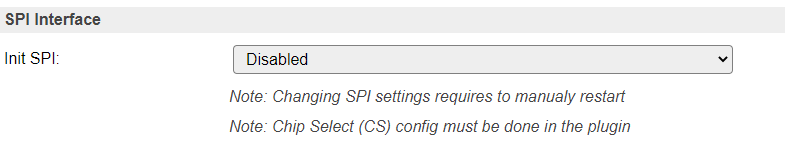
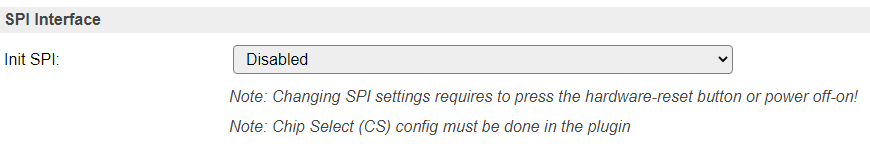
[SPI][ESP32] User-defined GPIO pins for SCLK, MISO and MOSI

diff --git a/src/src/WebServer/HardwarePage.cpp b/src/src/WebServer/HardwarePage.cpp
@@ -32,6 +32,7 @@ void handle_hardware() {
 
   if (isFormItem(F("psda")))
   {
+    String error;
     Settings.Pin_status_led           = getFormItemInt(F("pled"));
     Settings.Pin_status_led_Inversed  = isFormItemChecked(F("pledi"));
     Settings.Pin_Reset                = getFormItemInt(F("pres"));
@@ -50,6 +51,14 @@ void handle_hardware() {
 #endif
     #ifdef ESP32
       Settings.InitSPI                = getFormItemInt(F("initspi"), 0);
+      if (Settings.InitSPI == 3) { // User-define SPI GPIO pins
+        Settings.SPI_SCLK_pin         = getFormItemInt(F("spipinsclk"), -1);
+        Settings.SPI_MISO_pin         = getFormItemInt(F("spipinmiso"), -1);
+        Settings.SPI_MOSI_pin         = getFormItemInt(F("spipinmosi"), -1);
+        if (!Settings.isSPI_valid()) { // Checks
+          error += F("User-defined SPI pins not configured correctly!\n");
+        }
+      }
     #else //for ESP8266 we keep the old UI
       Settings.InitSPI                = isFormItemChecked(F("initspi")); // SPI Init
     #endif
@@ -80,7 +89,7 @@ void handle_hardware() {
       }
       ++gpio;
     }
-    String error = SaveSettings();
+    error += SaveSettings();
     addHtmlError(error);
     if (error.isEmpty()) {
       // Apply I2C settings.
@@ -156,12 +165,21 @@ void handle_hardware() {
   addFormSubHeader(F("SPI Interface"));
   #ifdef ESP32
   {
-    const __FlashStringHelper * spi_options[3] = { 
+    // Script to show GPIO pins for User-defined SPI GPIOs
+    html_add_script(F("function spiOptionChanged(elem) {var spipinstyle = elem.value == 3 ? '' : 'none';document.getElementById('tr_spipinsclk').style.display = spipinstyle;document.getElementById('tr_spipinmiso').style.display = spipinstyle;document.getElementById('tr_spipinmosi').style.display = spipinstyle;}"),
+                    false);
+    const String spi_options[] = {
       F("Disabled"), 
       F("VSPI: CLK=GPIO-18, MISO=GPIO-19, MOSI=GPIO-23"), 
-      F("HSPI: CLK=GPIO-14, MISO=GPIO-12, MOSI=GPIO-13")};
-    addFormSelector(F("Init SPI"), F("initspi"), 3, spi_options, NULL, Settings.InitSPI);
-    addFormNote(F("Changing SPI settings requires to manualy restart"));
+      F("HSPI: CLK=GPIO-14, MISO=GPIO-12, MOSI=GPIO-13"),
+      F("User-defined: CLK, MISO, MOSI GPIO-pins")};
+    addFormSelector_script(F("Init SPI"), F("initspi"), 4, spi_options, NULL, NULL, Settings.InitSPI, F("spiOptionChanged(this)"));
+    // User-defined pins
+    addFormPinSelect(PinSelectPurpose::SPI, formatGpioName_output(F("CLK")),  F("spipinsclk"), Settings.SPI_SCLK_pin);
+    addFormPinSelect(PinSelectPurpose::SPI, formatGpioName_input(F("MISO")),  F("spipinmiso"), Settings.SPI_MISO_pin);
+    addFormPinSelect(PinSelectPurpose::SPI, formatGpioName_output(F("MOSI")), F("spipinmosi"), Settings.SPI_MOSI_pin);
+    html_add_script(F("document.getElementById('initspi').onchange();"), false); // Initial trigger onchange script
+    addFormNote(F("Changing SPI settings requires to press the hardware-reset button or power off-on!"));
   }
   #else //for ESP8266 we keep the existing UI
   addFormCheckBox(F("Init SPI"), F("initspi"), Settings.InitSPI>0);
@@ -170,6 +188,7 @@ void handle_hardware() {
   addFormNote(F("Chip Select (CS) config must be done in the plugin"));
   
 #ifdef FEATURE_SD
+  addFormSubHeader(F("SD Card"));
   addFormPinSelect(PinSelectPurpose::Generic_output, formatGpioName_output(F("SD Card CS")), F("sd"), Settings.Pin_sd_cs);
 #endif // ifdef FEATURE_SD
   

diff --git a/src/src/DataStructs/SettingsStruct.cpp b/src/src/DataStructs/SettingsStruct.cpp
@@ -540,7 +540,7 @@ bool SettingsStruct_tmpl<N_TASKS>::getSPI_pins(int8_t spi_gpios[3]) const {
   spi_gpios[0] = -1;
   spi_gpios[1] = -1;
   spi_gpios[2] = -1;
-  if (InitSPI > 0) {
+  if (isSPI_valid()) {
     # ifdef ESP32
     switch (InitSPI) {
       case 1:
@@ -553,6 +553,13 @@ bool SettingsStruct_tmpl<N_TASKS>::getSPI_pins(int8_t spi_gpios[3]) const {
         spi_gpios[0] = 14; // HSPI_SCLK
         spi_gpios[1] = 12; // HSPI_MISO
         spi_gpios[2] = 13; // HSPI_MOSI
+        break;
+      }
+      case 3:
+      {
+        spi_gpios[0] = SPI_SCLK_pin;
+        spi_gpios[1] = SPI_MISO_pin;
+        spi_gpios[2] = SPI_MOSI_pin;
         break;
       }
       default:
@@ -577,6 +584,18 @@ bool SettingsStruct_tmpl<N_TASKS>::isSPI_pin(int8_t pin) const {
     }
   }
   return false;
+}
+
+template<unsigned int N_TASKS>
+bool SettingsStruct_tmpl<N_TASKS>::isSPI_valid() const {
+  return !((InitSPI == 0) ||
+           ((InitSPI == 3) &&
+            ((SPI_SCLK_pin == -1) ||
+             (SPI_MISO_pin == -1) ||
+             (SPI_MOSI_pin == -1) ||
+             (SPI_SCLK_pin == SPI_MISO_pin) ||
+             (SPI_MISO_pin == SPI_MOSI_pin) ||
+             (SPI_MOSI_pin == SPI_SCLK_pin)))); // Checks
 }
 
 template<unsigned int N_TASKS>

diff --git a/src/src/DataStructs/SettingsStruct.h b/src/src/DataStructs/SettingsStruct.h
@@ -179,6 +179,9 @@ class SettingsStruct_tmpl
   // Return true when pin is one of the SPI pins and SPI is enabled
   bool isSPI_pin(int8_t pin) const;
 
+  // Return true when SPI enabled and opt. user defined pins valid.
+  bool isSPI_valid() const;
+
   // Return true when pin is one of the configured I2C pins.
   bool isI2C_pin(int8_t pin) const;
 
@@ -320,6 +323,10 @@ class SettingsStruct_tmpl
   uint8_t       WiFi_TX_power = 70; // 70 = 17.5dBm. unit: 0.25 dBm
   int8_t        WiFi_sensitivity_margin = 3;  // Margin in dBm on top of sensitivity.
   uint8_t       NumberExtraWiFiScans = 0;
+  int8_t        SPI_SCLK_pin = -1;
+  int8_t        SPI_MISO_pin = -1;
+  int8_t        SPI_MOSI_pin = -1;
+  int8_t        alignmentFiller0;  // Should be reused, just added to keep up with alignment
 };
 
 /*

diff --git a/src/src/Helpers/ESPEasy_checks.cpp b/src/src/Helpers/ESPEasy_checks.cpp
@@ -71,10 +71,10 @@ void run_compiletime_checks() {
   check_size<CRCStruct,                             204u>();
   check_size<SecurityStruct,                        593u>();
   #ifdef ESP32
-  const unsigned int SettingsStructSize = (312 + 84 * TASKS_MAX);
+  const unsigned int SettingsStructSize = (316 + 84 * TASKS_MAX);
   #endif
   #ifdef ESP8266
-  const unsigned int SettingsStructSize = (288 + 84 * TASKS_MAX);
+  const unsigned int SettingsStructSize = (292 + 84 * TASKS_MAX);
   #endif
   check_size<SettingsStruct,                        SettingsStructSize>();
   check_size<ControllerSettingsStruct,              820u>();

diff --git a/src/src/Helpers/Hardware.cpp b/src/src/Helpers/Hardware.cpp
@@ -118,7 +118,7 @@ void hardwareInit()
   initI2C();
 
   // SPI Init
-  if (Settings.InitSPI > 0)
+  if (Settings.isSPI_valid())
   {
     SPI.setHwCs(false);
 
@@ -132,6 +132,11 @@ void hardwareInit()
       # define HSPI_SCLK   14
       # define HSPI_SS     15
       SPI.begin(HSPI_SCLK, HSPI_MISO, HSPI_MOSI); // HSPI
+    } else if (Settings.InitSPI >= 3)
+    {
+      SPI.begin(Settings.SPI_SCLK_pin,
+                Settings.SPI_MISO_pin,
+                Settings.SPI_MOSI_pin); // User-defined SPI
     }
     else {
       SPI.begin();                                // VSPI

diff --git a/src/src/Helpers/ESPEasy_Storage.cpp b/src/src/Helpers/ESPEasy_Storage.cpp
@@ -289,6 +289,13 @@ String BuildFixes()
     // Disable periodical scanning as it does cause lots of strange issues.
     Settings.PeriodicalScanWiFi(false);
   }
+  if (Settings.Build < 20115) {
+    if (Settings.InitSPI != 3) { // User-defined SPI pins set to None
+      Settings.SPI_SCLK_pin = -1;
+      Settings.SPI_MISO_pin = -1;
+      Settings.SPI_MOSI_pin = -1;
+    }
+  }
 
   Settings.Build = BUILD;
   return SaveSettings();

diff --git a/src/src/WebServer/Markup_Forms.cpp b/src/src/WebServer/Markup_Forms.cpp
@@ -459,7 +459,7 @@ void addFormSelector_script(const String  & label,
                             )
 {
   addRowLabel_tr_id(label, id);
-  do_addSelector_Head(id, EMPTY_STRING, onChangeCall, false
+  do_addSelector_Head(id, F("wide"), onChangeCall, false
                       #ifdef ENABLE_TOOLTIPS
                       , tooltip
                       #endif // ifdef ENABLE_TOOLTIPS

diff --git a/src/src/CustomBuild/ESPEasy_buildinfo.h b/src/src/CustomBuild/ESPEasy_buildinfo.h
@@ -20,7 +20,7 @@
 #endif // if defined(ESP32)
 
 
-#define BUILD                           20114    // git version e.g. "20103" can be read as "2.1.03" (stored in int16_t)
+#define BUILD                           20115    // git version e.g. "20103" can be read as "2.1.03" (stored in int16_t)
 #ifndef BUILD_NOTES
 #if defined(ESP8266)
   # define BUILD_NOTES                 " - Mega"

diff --git a/docs/source/Hardware/Hardware.rst b/docs/source/Hardware/Hardware.rst
@@ -137,7 +137,7 @@ NB: Only acceptable channel checkboxes (0-7/0-3/0-1) will be shown, depending on
 SPI Interface
 -------------
 
-When using devices that are connected via the SPI interface (`Wikipedia: SPI <https://en.wikipedia.org/wiki/Serial_Peripheral_Interface>`_), the interface must be initialized during boot. This can be enabled here. For ESP32 there is the option to select either the Hardware SPI (HSPI) interface or the Virtual SPI (VSPI) interface (software controlled).
+When using devices that are connected via the SPI interface (`Wikipedia: SPI <https://en.wikipedia.org/wiki/Serial_Peripheral_Interface>`_), the interface must be initialized during boot. This can be enabled here. For ESP32 there is the option to select the HSPI (often called Hardware SPI) interface, the VSPI (often called Virtual SPI) interface, or select User-defined GPIO pins for the ``SCLK``, ``MISO`` and ``MOSI`` signals.
 
 The common SPI pins are shown here.
 
@@ -151,11 +151,30 @@ Other SPI pins to be used are device specific, and need to be configured from th
 
 .. image:: Hardware_SPIInterfaceESP32.png
 
-*For ESP32, select the desired interface:*
+*For ESP32, select the desired configuration:*
 
 .. image:: Hardware_SPIInterfaceESP32_Select.png
 
-NB: When using the VSPI interface and also the I2C interface is used, another pin has to be selected for I2C GPIO -> SCL, as its configuration is fixed for the VSPI setting.
+NB: When using the VSPI configuration and also the I2C interface is used, another pin has to be selected for I2C GPIO -> SCL, as its configuration is fixed for the VSPI setting.
+
+When selecting the *User-defined* options, 3 extra input fields are displayed, where the ``SCLK``, ``MISO`` and ``MOSI`` GPIO pins have to be selected. Nearly all pins can be used, but for the output signals ``SCLK`` and ``MOSI`` **no** *input-only* pins should be selected!
+
+.. image:: Hardware_SPIInterfaceESP32_UserDefined.png
+
+.. warning::
+    When changing the setting for **Init SPI**, or changing any of the User-defined GPIO pins, the ESP32 unit needs a hardware reset. This can be achieved by pressing the reset button (when available, sometimes labelled ``EN`` or ``RST``), or by completely removing the power for ~30 seconds. Also take into account here that units with a backup battery (f.e. some LilyGo and Waveshare ESP32 models) may keep power on the unit, so specific measures may have to be taken!
+
+NB: When selecting the *User-defined* option, **all 3 GPIO pins should be set**, or an error message will be displayed when the page is saved, and the SPI interface will not be enabled at the next boot.
+
+.. image:: Hardware_SPIpinsError.png
+
+-------
+SD Card
+-------
+
+When the compile-time option for SD-card support is enabled, the ``CS`` pin for the SD-card interface can be configured here. For the SD-card interface to work, **Init SPI** should also be enabled.
+
+.. image:: Hardware_SDCard.png
 
 --------
 Ethernet
